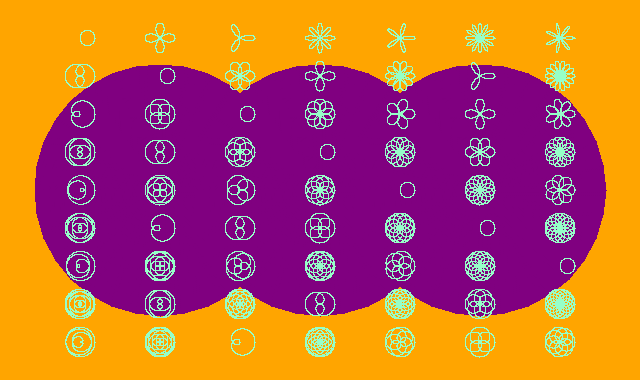
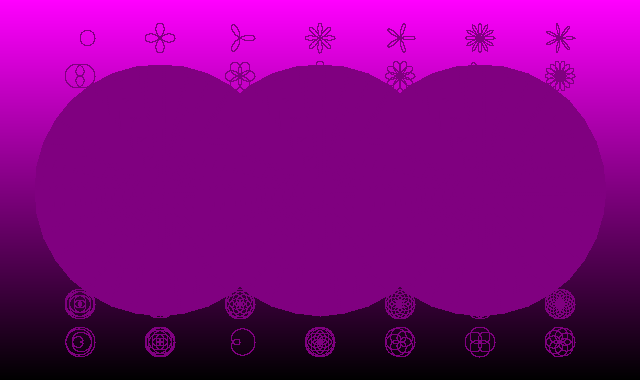
moved images from build to images/test

diff --git a/src/draw_art.cpp b/src/draw_art.cpp
@@ -35,14 +35,14 @@ int main(int argc, char** argv)
 
 
    //--------------------------- ART 2 ---------------------------
-   drawer.background(255, 165, 0);
+   drawer.background(0, 0, 0);
+   drawer.gradient({0, 0, 0}, {255, 0, 255}, "vertical", 1);
    
    drawer.color(128, 0, 128);
    drawer.circle(WIDTH / 4, HEIGHT / 2, HEIGHT / 3);
    drawer.circle(WIDTH / 2, HEIGHT / 2, HEIGHT / 3);
    drawer.circle(3 * WIDTH / 4, HEIGHT / 2, HEIGHT / 3);
 
-   drawer.color(150, 255, 200);
    int x, y;
    for (int n = 1; n <= 7; n++) {
       for (int d = 1; d <= 9; d++) {
@@ -51,7 +51,6 @@ int main(int argc, char** argv)
          drawer.rose(x, y, 15, n, d);
       }
    }
-
    drawer.save("../images/art/art-2.png");
 
 
@@ -59,8 +58,8 @@ int main(int argc, char** argv)
    //--------------------------- ART 3 ---------------------------
    drawer.background(0, 0, 0);
 
-   for (int i = 1; i <= 100; i++) {
-      drawer.color(rand() % 255, rand() % 255, rand() % 255);
+   for (int i = 1; i <= 500; i++) {
+      drawer.color(rand() % 256, rand() % 256, rand() % 256);
       if (i % 3 == 0) {
          drawer.begin(POINTS);
          x = rand() % WIDTH;
@@ -73,6 +72,7 @@ int main(int argc, char** argv)
          drawer.vertex(x, y);
          x = rand() % WIDTH;
          y = rand() % HEIGHT;
+         drawer.color(rand() % 256, rand() % 256, rand() % 256);
          drawer.vertex(x, y);
       } else if (i % 3 == 2) {
          drawer.begin(TRIANGLES);
@@ -81,9 +81,11 @@ int main(int argc, char** argv)
          drawer.vertex(x, y);
          x = rand() % WIDTH;
          y = rand() % HEIGHT;
+         drawer.color(rand() % 256, rand() % 256, rand() % 256);
          drawer.vertex(x, y);
          x = rand() % WIDTH;
          y = rand() % HEIGHT;
+         drawer.color(rand() % 256, rand() % 256, rand() % 256);
          drawer.vertex(x, y);
       }
       drawer.end();
@@ -98,7 +100,7 @@ int main(int argc, char** argv)
 
    int xLeft, yBottom, xRight, yTop, centerX, centerY, radius;
    for (int i = 1; i <= 100; i++) {
-      drawer.color(rand() % 255, rand() % 255, rand() % 255);
+      drawer.color(rand() % 256, rand() % 256, rand() % 256);
       if (i % 2 == 0) {
          xLeft = rand() % WIDTH;
          yBottom = rand() % HEIGHT;
@@ -108,7 +110,7 @@ int main(int argc, char** argv)
       } else {
          centerX = rand() % WIDTH;
          centerY = rand() % HEIGHT;
-         radius = rand() % min({centerX, WIDTH - centerX, centerY, HEIGHT - centerY});
+         radius = rand() % (min({centerX, WIDTH - centerX, centerY, HEIGHT - centerY}) + 1);
          drawer.circle(centerX, centerY, radius);
       }
    }
@@ -120,13 +122,14 @@ int main(int argc, char** argv)
    //--------------------------- ART 5 ---------------------------
    drawer.background(0, 0, 0);
 
+   drawer.changeBlendMode("average");
    int a, n, d;
    for (int i = 1; i <= 100; i++) {
-      drawer.color(rand() % 255, rand() % 255, rand() % 255);
+      drawer.color(rand() % 256, rand() % 256, rand() % 256);
       if (i % 2 == 0) {
          centerX = rand() % WIDTH;
          centerY = rand() % HEIGHT;
-         radius = rand() % min({centerX, WIDTH - centerX, centerY, HEIGHT - centerY});
+         radius = rand() % (min({centerX, WIDTH - centerX, centerY, HEIGHT - centerY}) + 1);
          drawer.star(centerX, centerY, radius);
       } else {
          centerX = rand() % WIDTH;
@@ -137,7 +140,8 @@ int main(int argc, char** argv)
          drawer.rose(centerX, centerY, a, n, d);
       }
    }
-   
+
    drawer.save("../images/art/art-5.png");
+   drawer.changeBlendMode("set");
 }
 

diff --git a/src/draw_test.cpp b/src/draw_test.cpp
@@ -26,14 +26,14 @@ int main(int argc, char** argv)
    drawer.end();
    drawer.save("../images/test/point.png");
 
-   test_line(drawer, 0, 50, 100, 50, "horizontal-line.png");
-   test_line(drawer, 50, 0, 50, 100, "vertical-line.png");
-   test_line(drawer, 0, 0, 100, 100, "diagonal-line-1.png"); // slope = 1
-   test_line(drawer, 25, 10, 75, 25,  "h-lessthan-w-line-1.png"); // slope H < W
-   test_line(drawer, 25, 25, 75, 75,  "w-lessthan-h-line-1.png"); // slope W < H
-   test_line(drawer, 0, 100, 100, 0, "diagonal-line-2.png"); // slope H < W
-   test_line(drawer, 25, 90, 75, 75,  "h-lessthan-w-line-2.png"); // slope H < W
-   test_line(drawer, 25, 90, 75, 25,  "w-lessthan-h-line-2.png"); // slope W < H
+   test_line(drawer, 0, 50, 100, 50, "../images/test/horizontal-line.png");
+   test_line(drawer, 50, 0, 50, 100, "../images/test/vertical-line.png");
+   test_line(drawer, 0, 0, 100, 100, "../images/test/diagonal-line-1.png"); // slope = 1
+   test_line(drawer, 25, 10, 75, 25,  "../images/test/h-lessthan-w-line-1.png"); // slope H < W
+   test_line(drawer, 25, 25, 75, 75,  "../images/test/w-lessthan-h-line-1.png"); // slope W < H
+   test_line(drawer, 0, 100, 100, 0, "../images/test/diagonal-line-2.png"); // slope H < W
+   test_line(drawer, 25, 90, 75, 75,  "../images/test/h-lessthan-w-line-2.png"); // slope H < W
+   test_line(drawer, 25, 90, 75, 25,  "../images/test/w-lessthan-h-line-2.png"); // slope W < H
 
    // test line interpolation
    drawer.background(0, 0, 0);
@@ -84,7 +84,7 @@ int main(int argc, char** argv)
 
    // test gradient
    drawer.background(255, 255, 255);
-   drawer.gradient({0, 255, 0}, {255, 0, 255}, "vertical", 1);
+   drawer.gradient({0, 255, 0}, {0, 64, 0}, "vertical", 1);
    drawer.color(255, 255, 255);
    drawer.begin(LINES);
    drawer.vertex(0, 0);

diff --git a/src/canvas.cpp b/src/canvas.cpp
@@ -35,6 +35,9 @@ void Canvas::end()
       drawLine();
    } else if (_currentType == TRIANGLES) {
       drawTriangle();
+   } else if (_currentType == UNDEFINED) {
+      cerr << "Undefined primitive type" << endl;
+      exit(6);
    }
    _vertices.clear();
 }
@@ -196,7 +199,6 @@ void Canvas::drawTriangle()
             }
             if (colorCondition) {
                // Avoid overlap
-               // OVERLAP CONDITION MESSES WITH OUTLINE FILL
                if ((alpha > 0 || fAlpha * implicitEqn(-1, -1, vertexB, vertexC) > 0) && (beta > 0 || fBeta * implicitEqn(-1, -1, vertexA, vertexC) > 0) && (gamma > 0 || fGamma * implicitEqn(-1, -1, vertexA, vertexB) > 0)) {
                   unsigned char r = vertexA.color.r * alpha + vertexB.color.r * beta + vertexC.color.r * gamma;
                   unsigned char g = vertexA.color.g * alpha + vertexB.color.g * beta + vertexC.color.g * gamma;
@@ -296,6 +298,8 @@ void Canvas::colorPixel(int x, int y, const Pixel& color) {
          newPx = {(unsigned char) (color.r + origPx.r), (unsigned char) (color.g + origPx.g), (unsigned char) (color.b + origPx.b)};
       } else if (_blendMode == "difference") {
          newPx = {(unsigned char) abs(color.r - origPx.r), (unsigned char) abs(color.g - origPx.g), (unsigned char) abs(color.b - origPx.b)};
+      } else if (_blendMode == "average") {
+         newPx = {(unsigned char) (0.5 * color.r + 0.5 * origPx.r), (unsigned char) (0.5 * color.g + 0.5 * origPx.g), (unsigned char) (0.5 * color.b + 0.5 * origPx.b)};
       }   
       _canvas.set(y, x, newPx);
    }
